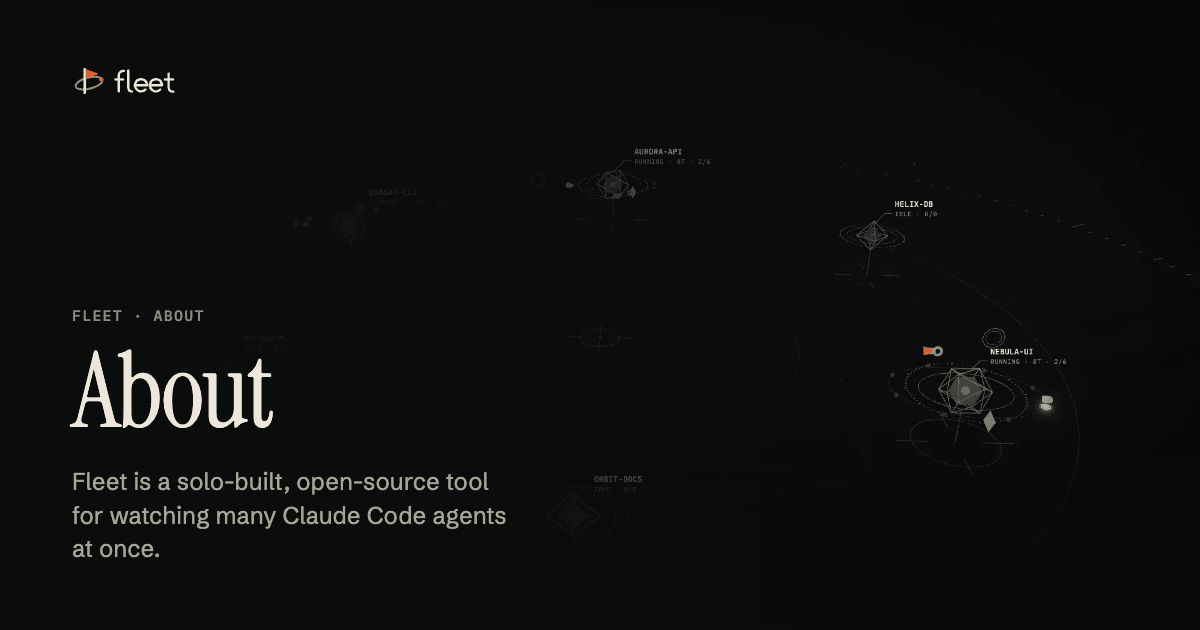
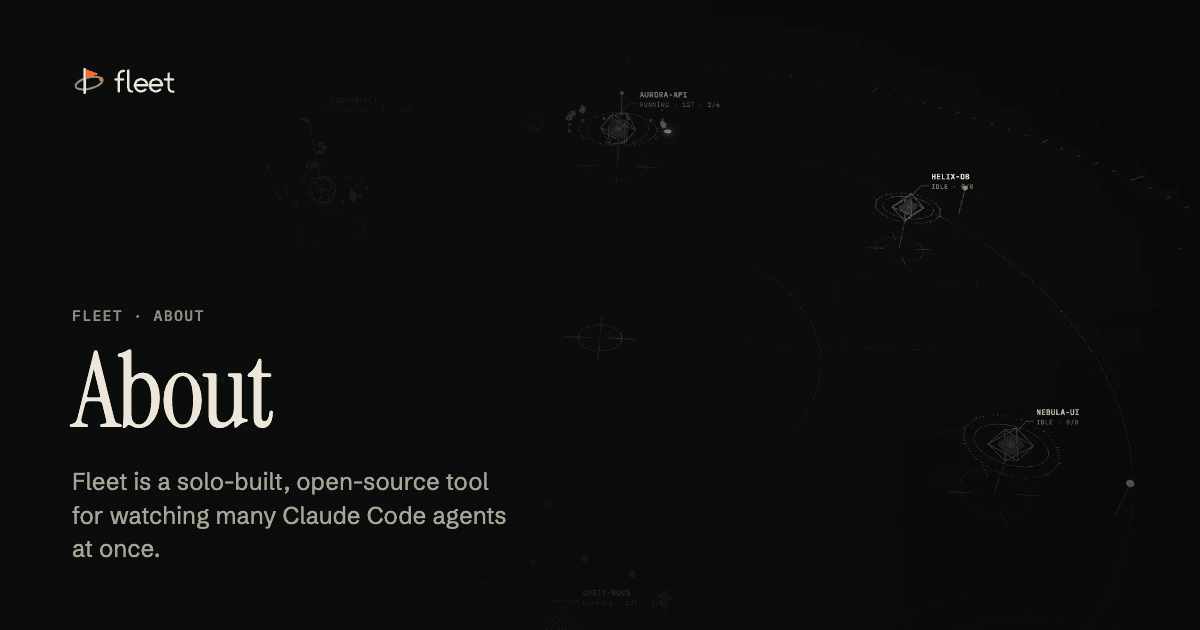
feat(site): scene-native hero signal, phone posters, regenerated assets

diff --git a/apps/site/app/globals.css b/apps/site/app/globals.css
@@ -1691,7 +1691,7 @@ pre.code .c {
 }
 
 /* ======================================================================
-   v1.1 site pass (t40): rhythm, numbering, hero flare, proof, phone,
+   v1.1 site pass (t40): rhythm, numbering, hero sync, proof, phone,
    spend beat, CTA, docs rail and copy, live 404.
    ====================================================================== */
 
@@ -1808,181 +1808,31 @@ main {
 @media (max-width: 1023px) {
   .hero-stage {
     bottom: auto;
-    height: 46%;
-    -webkit-mask-image: linear-gradient(to bottom, #000 62%, transparent 100%);
-    mask-image: linear-gradient(to bottom, #000 62%, transparent 100%);
+    /* A fixed height, not a share of the hero: the hero grows with its copy, and a taller stage would
+       crop the square phone poster at the sides and push its legend down behind the headline. */
+    height: min(100vw, 46svh);
+    /* Fully clear by 88%: the poster's legend row sits below that, under the copy. */
+    -webkit-mask-image: linear-gradient(to bottom, #000 55%, transparent 88%);
+    mask-image: linear-gradient(to bottom, #000 55%, transparent 88%);
   }
   .hero-shade {
     background: none;
   }
   .hero-copy {
     align-content: end;
-    padding-top: calc(46svh - var(--fl-space-7));
+    padding-top: calc(min(100vw, 46svh) - var(--fl-space-7));
     padding-bottom: var(--fl-space-8);
   }
 }
 
-/* S1 flare. Final state is the static state; motion only plays it in. */
-.flare {
-  position: absolute;
-  left: var(--flare-x, 46%);
-  top: var(--flare-y, 48%);
-  width: 0;
-  height: 0;
-  z-index: 1;
-  pointer-events: none;
-  color: var(--fl-fg-muted);
-}
-.flare-hull {
-  position: absolute;
-  left: -24px;
-  top: -28px;
-  width: 48px;
-  height: 56px;
-}
-.flare-hull svg {
-  display: block;
-  overflow: visible;
-  fill: none;
-  stroke-linejoin: round;
-}
-.flare-frame {
-  stroke: currentColor;
-  stroke-width: 1.25;
-}
-.flare-rim {
-  stroke: var(--fl-accent);
-  stroke-width: 2;
-  filter: drop-shadow(0 0 6px var(--fl-accent));
-}
-.flare-beam {
-  position: absolute;
-  left: -1px;
-  bottom: 0;
-  width: 2px;
-  height: var(--flare-beam, 36vh);
-  background: linear-gradient(to top, var(--fl-accent) 0%, transparent 100%);
-  transform-origin: 50% 100%;
-}
-.flare-beam::before {
-  content: '';
-  position: absolute;
-  inset: 0 -14px;
-  background: linear-gradient(to top, var(--fl-accent) 0%, transparent 70%);
-  opacity: 0.18;
-  filter: blur(8px);
-}
-.flare-ring {
-  position: absolute;
-  left: -44px;
-  top: -14px;
-  width: 88px;
-  height: 28px;
-  border: var(--fl-hairline) solid var(--fl-accent);
-  border-radius: 50%;
-  opacity: 0.45;
-}
-.flare-ring-2 {
-  left: -76px;
-  top: -24px;
-  width: 152px;
-  height: 48px;
-  opacity: 0.18;
-}
-.flare-tag {
-  position: absolute;
-  left: 40px;
-  top: -44px;
-  display: flex;
-  align-items: center;
-  gap: var(--fl-space-2);
-  white-space: nowrap;
-  padding: var(--fl-space-1) var(--fl-space-3);
-  font: 500 var(--fl-text-xs) / var(--fl-leading-normal) var(--fl-font-mono);
-  color: var(--fl-fg);
-  background: var(--fl-glass);
-  border: var(--fl-hairline) solid color-mix(in srgb, var(--fl-accent) 45%, var(--fl-border));
-  border-radius: var(--fl-radius-sm);
-  -webkit-backdrop-filter: blur(var(--fl-blur-md));
-  backdrop-filter: blur(var(--fl-blur-md));
-}
-.flare-tag b {
-  font-weight: 600;
-}
-.flare-tag-dot {
-  width: 6px;
-  height: 6px;
-  border-radius: var(--fl-radius-pill);
-  background: var(--fl-accent);
-}
-@media (max-width: 1023px) {
-  .flare {
-    --flare-x: 50%;
-    --flare-y: 50%;
-    --flare-beam: 30svh;
-  }
-  .flare-tag {
-    left: 0;
-    top: 40px;
-    transform: translateX(-50%);
-  }
-}
+/* S1: the scene's own halyard signal (packages/web viz) raises the flare; the headline's last words
+   turn signal orange in step with it. Reduced motion shows the end state. */
 @media (prefers-reduced-motion: no-preference) {
-  .flare-hull {
-    animation: flare-drift 1.6s var(--fl-ease-land) both;
-  }
-  .flare-rim {
-    animation: flare-fade 0.5s 1.4s ease-out both;
-  }
-  .flare-beam {
-    animation: flare-rise 1.2s 1.6s var(--fl-ease-land) both;
-  }
-  .flare-ring {
-    animation: flare-ping 2.8s 1.6s ease-out infinite both;
-  }
-  .flare-ring-2 {
-    animation-delay: 3s;
-  }
-  .flare-tag {
-    animation: flare-fade 0.6s 2s ease-out both;
-  }
   .hero-sync {
-    animation: flare-sync 0.6s 1.6s ease-out both;
+    animation: hero-sync 0.6s 1.2s ease-out both;
   }
 }
-@keyframes flare-drift {
-  from {
-    transform: translate(-80px, 12px);
-  }
-  to {
-    transform: none;
-  }
-}
-@keyframes flare-fade {
-  from {
-    opacity: 0;
-  }
-}
-@keyframes flare-rise {
-  from {
-    transform: scaleY(0);
-    opacity: 0;
-  }
-}
-@keyframes flare-ping {
-  0% {
-    transform: scale(0.4);
-    opacity: 0;
-  }
-  12% {
-    opacity: 0.6;
-  }
-  100% {
-    transform: scale(1.8);
-    opacity: 0;
-  }
-}
-@keyframes flare-sync {
+@keyframes hero-sync {
   from {
     color: var(--fl-fg);
   }

diff --git a/apps/site/app/page.tsx b/apps/site/app/page.tsx
@@ -5,7 +5,6 @@ import { InstallCommand } from '@/components/InstallCommand';
 import { CostMath, InboxPreview, PhonePreview, SessionsPreview, TerminalWall } from '@/components/Previews';
 import { OptionalSections } from '@/components/Optional';
 import { demoPreview } from '@/lib/demo';
-import { HeroFlare } from '@/components/HeroFlare';
 import { readChangelog } from '@/lib/changelog';
 import { fleetVersion, repoFacts } from '@/lib/repo';
 import { INSTALL_CMD, REPO_URL, pageMeta } from '@/lib/site';
@@ -18,9 +17,7 @@ export const metadata = pageMeta(
 
 export default function Home() {
   const facts = repoFacts();
-  const { totals, snapshot } = demoPreview();
-  // Agents that stopped for you, counted from the whole demo snapshot (the inbox preview is truncated).
-  const waiting = snapshot.agents.filter((a) => a.status === 'waiting').length;
+  const { totals } = demoPreview();
   const version = fleetVersion();
   const release = readChangelog().find((r) => r.version === version);
   return (
@@ -29,7 +26,6 @@ export default function Home() {
       <section className="hero grain" aria-labelledby="hero-title">
         <div className="hero-stage">
           <FleetStage posterAlt="A night harbour of glowing vessels: a synthetic fleet of Claude Code agents grouped by project" />
-          {waiting > 0 ? <HeroFlare waiting={waiting} /> : null}
         </div>
         <div className="hero-horizon" aria-hidden="true" />
         <div className="hero-shade" aria-hidden="true" />

diff --git a/apps/site/components/FleetStage.tsx b/apps/site/components/FleetStage.tsx
@@ -14,6 +14,8 @@ type Theme = 'light' | 'dark';
 /** Poster widths generated by scripts/assets.mjs: public/poster/fleet-<theme>-<w>.webp */
 const POSTER_WIDTHS = [768, 1280, 1920] as const;
 const srcSet = (t: Theme) => POSTER_WIDTHS.map((w) => `/poster/fleet-${t}-${w}.webp ${w}w`).join(', ');
+/** Square 840px phone poster (scripts/assets.mjs: public/poster/fleet-<theme>-m.webp). */
+const phonePoster = (t: Theme) => `/poster/fleet-${t}-m.webp`;
 
 /**
  * The scene follows html[data-theme], else the system scheme. The <picture> covers the system case
@@ -154,6 +156,14 @@ export function FleetStage({
   return (
     <>
       <picture>
+        {/* Phones get a square still rendered at phone size, so its station labels stay legible. */}
+        {forced ? null : (
+          <source
+            media="(max-width: 720px) and (prefers-color-scheme: light)"
+            srcSet={phonePoster('light')}
+          />
+        )}
+        <source media="(max-width: 720px)" srcSet={phonePoster(forced ?? 'dark')} />
         {forced ? null : (
           <source media="(prefers-color-scheme: light)" srcSet={srcSet('light')} sizes="100vw" />
         )}
